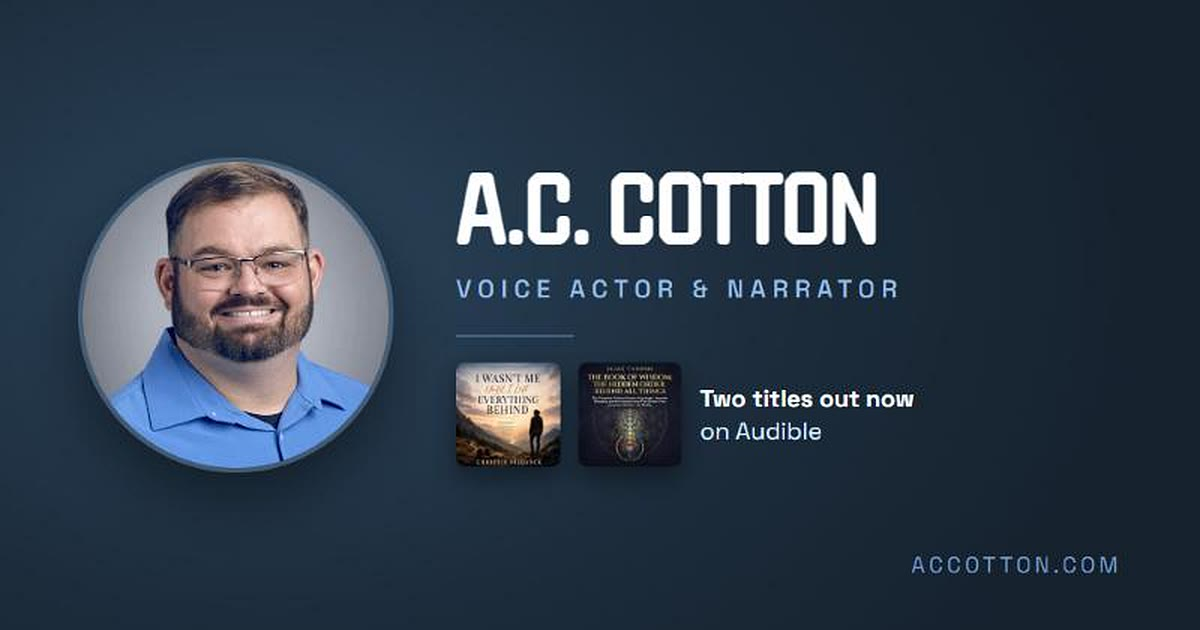
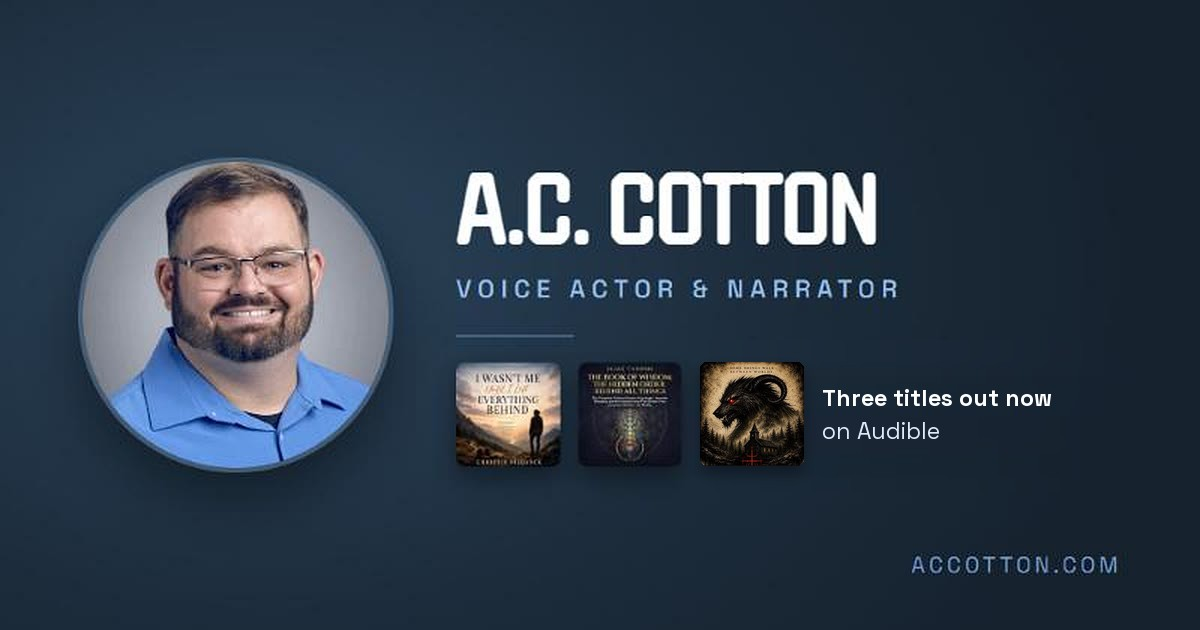
Loup-Garou is out now: Audible link, credit marked Out now, update post, About copy, three-title preview card

Changed region(s): [[0.5858, 0.573, 0.8942, 0.754]]

diff --git a/src/content.js b/src/content.js
@@ -22,6 +22,8 @@ export const AUDIBLE_I_WASNT_ME =
   "https://www.audible.com/pd/I-Wasnt-Me-Until-I-Left-Everything-Behind-Audiobook/B0HKLHW6VZ";
 export const AUDIBLE_BOOK_OF_WISDOM =
   "https://www.audible.com/pd/B0HLQ62M3X";
+export const AUDIBLE_LOUP_GAROU =
+  "https://www.audible.com/pd/B0HMJTDZVS";
 export const AUDIBLE_NARRATOR =
   "https://www.audible.com/search?searchNarrator=A.C.+Cotton";
 
@@ -70,7 +72,7 @@ export const meta = {
   credits: {
     title: "Audiobook & Video Game Voice Credits — A.C. Cotton",
     description:
-      "Audiobook and video game voice credits. I Wasn't Me Until I Left Everything Behind and The Book of Wisdom are out now on Audible.",
+      "Audiobook and video game voice credits. Loup-Garou, The Book of Wisdom and I Wasn't Me Until I Left Everything Behind are out now on Audible.",
   },
   rates: {
     title: "Audiobook Narration & Voiceover Rates — A.C. Cotton",
@@ -126,7 +128,7 @@ export const about = {
   paragraphs: [
     "Grumpy tavern keeper. Small-town sheriff. The villain who is far too pleased with himself. The steady voice on the last thirty seconds of a car ad. I've been told my range is annoyingly wide, and I have decided to take that as a compliment.",
     "Most of the work is long-form: audiobooks, game NPCs, anything where one voice has to hold up over hours instead of seconds. I record at home in a room I have quietly obsessed over, and I send multiple takes every time, because the read in your head is rarely the first one out of my mouth.",
-    "Two of those are out in the world: Christin Niebanck's memoir, I Wasn't Me Until I Left Everything Behind, and Elias Thorne's The Book of Wisdom. Both are on Audible, nine days apart, and I have stopped pretending I do not check the listings every morning.",
+    "Three of those are out in the world now: Christin Niebanck's memoir, I Wasn't Me Until I Left Everything Behind, Elias Thorne's The Book of Wisdom, and Kevin Schumacher's Loup-Garou. All three are on Audible, and I have stopped pretending I do not check the listings every morning.",
   ],
   specs: [
     { label: "Microphone", value: "Shure MV7+",      sub: "USB-C / XLR hybrid dynamic" },
@@ -154,7 +156,7 @@ export const about = {
     },
   ],
   cta: { label: "Hear the reels →", to: "reels" },
-  listen: { label: "Both titles on Audible →", href: AUDIBLE_NARRATOR },
+  listen: { label: "All three on Audible →", href: AUDIBLE_NARRATOR },
 };
 
 /* --- Demo reels ----------------------------------------------------------
@@ -198,6 +200,12 @@ export const credits = {
       coverAlt: "Cover of The Book of Wisdom: The Hidden Order Behind All Things by Elias Thorne",
       meta: "Elias Thorne · Esoteric non-fiction", status: "Out now", live: true,
       summary: "Twenty chapters on the Hermetic principles and the patterns said to sit beneath them: sacred geometry, the Tree of Life, consciousness and vibration, with a meditation closing each one. Six and a half hours, read slow and deliberate." },
+    { medium: "Audiobook", tone: "steel", role: "Narrator — ", work: "Loup-Garou", em: true,
+      listen: AUDIBLE_LOUP_GAROU,
+      cover: "cover-loup-garou", coverH: 132,
+      coverAlt: "Cover art for Loup-Garou by Kevin Schumacher",
+      meta: "Kevin Schumacher · Folklore & horror", status: "Out now", live: true,
+      summary: "A man at a Maine lake camp starts waking with something in the room and his body refusing to move. The search for an explanation runs from brain scans to a skull turned up in his own ground to a root doctor on Daufuskie Island — twenty chapters of slow dread, first person, in the voice of someone working hard to stay reasonable about it." },
     { medium: "Video game", tone: "dark", role: "NPC voice actor — ", work: "Knight's Path", em: true,
       trailer: true,
       // Transparent logo rather than cover art, so it carries no card or shadow.
@@ -209,11 +217,6 @@ export const credits = {
       coverAlt: "Knight's Path logo",
       meta: "Character and dialect work · Medieval historical", status: "In production",
       summary: "A story-driven action RPG in a grounded low-fantasy world modelled on the Holy Roman Empire — villages, manors, ruined castles, and the city of Eranthold. Combat follows Historical European Martial Arts rather than arcade flourish: deliberate, weighty, every action intentional." },
-    { medium: "Audiobook", tone: "steel", role: "Narrator — ", work: "Loup-Garou", em: true,
-      cover: "cover-loup-garou", coverH: 132,
-      coverAlt: "Cover art for Loup-Garou by Kevin Schumacher",
-      meta: "Kevin Schumacher · Folklore & horror", status: "In production",
-      summary: "A man at a Maine lake camp starts waking with something in the room and his body refusing to move. The search for an explanation runs from brain scans to a skull turned up in his own ground to a root doctor on Daufuskie Island — twenty chapters of slow dread, first person, in the voice of someone working hard to stay reasonable about it." },
   ],
   footnote: "More credits added as new roles are booked.",
 };
@@ -287,7 +290,10 @@ export const updates = {
   heading: "Updates.",
   lede: "Short posts when a book wraps, a role is booked, or the studio changes.",
   posts: [
-    { tone: "dark", medium: "Audiobook", status: "Out now", date: "October 1, 2026",
+    { tone: "dark", medium: "Audiobook", status: "Out now", date: "October 9, 2026",
+      listen: AUDIBLE_LOUP_GAROU,
+      title: "<em>Loup-Garou</em> by Kevin Schumacher" },
+    { tone: "steel", medium: "Audiobook", status: "Out now", date: "October 1, 2026",
       listen: AUDIBLE_BOOK_OF_WISDOM,
       title: "<em>The Book of Wisdom</em> by Elias Thorne" },
     { tone: "steel", medium: "Audiobook", status: "Out now", date: "September 30, 2026",

diff --git a/src/render.js b/src/render.js
@@ -518,7 +518,7 @@ export function page(key, peaks, assets) {
 <meta property="og:image" content="${esc(C.site.origin)}/img/og-card.jpg">
 <meta property="og:image:width" content="1200">
 <meta property="og:image:height" content="630">
-<meta property="og:image:alt" content="A.C. Cotton, Voice Actor and Narrator — two titles out now on Audible">
+<meta property="og:image:alt" content="A.C. Cotton, Voice Actor and Narrator — three titles out now on Audible">
 <meta name="twitter:card" content="summary_large_image">
 <meta name="theme-color" content="#1d2d3d">
 
